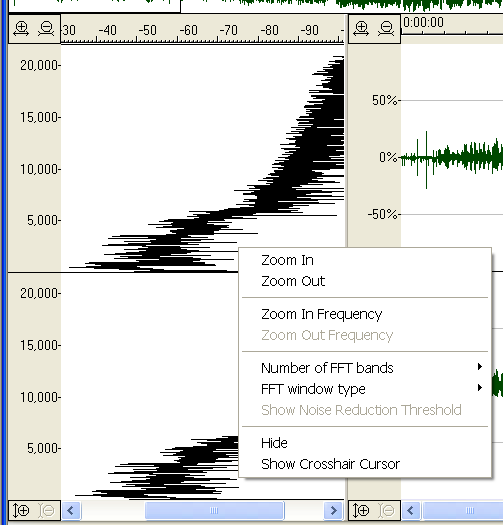
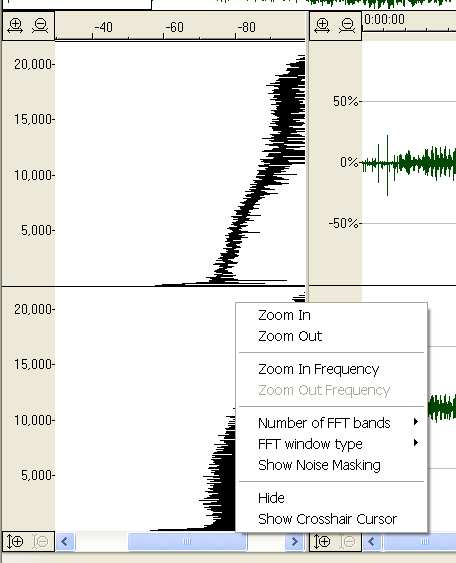
Change "Show spectrum" to "Show noise masking"

diff --git a/hlp/html/MainWindow/spectrum_section_pane.htm b/hlp/html/MainWindow/spectrum_section_pane.htm
@@ -31,7 +31,7 @@ the frequency (vertical) axis;</p>
 synchronized with <a href="fft_spectrum_view.htm">spectrum view</a>.</p>
 <p>&quot;<b>FFT window type</b>&quot; - allows to select different
 <a href="fft_spectrum_view.htm#window_type">windowing function</a>.</p>
-<p>&quot;<b>Show noise reduction threshold</b>&quot; - turns on and off display of
+<p>&quot;<b>Show Noise Masking</b>&quot; - turns on and off display of
 <a href="../Process/process_noise_reduction.htm#algorithm">noise masking 
 function and threshold</a>. </p>
 <p>&quot;<b>Hide</b>&quot; - hides this pane. You can reopen it with <b>Alt+4</b> keyboard 

diff --git a/hlp/html/Process/process_noise_reduction.htm b/hlp/html/Process/process_noise_reduction.htm
@@ -51,7 +51,7 @@ you won't be able to undo the operation and all previous operations.</P>
 operation. It opens a
 <a href="../Dialogs/Selection/SelectionDialog.htm">selection dialog</a>.</P>
 
-<p><a name="show_noise_mask"></a>&quot;<b>Show spectrum and noise threshold</b>&quot; button opens the
+<p><a name="show_noise_mask"></a>&quot;<b>Show noise masking</b>&quot; button opens the
 <a href="../MainWindow/spectrum_section_pane.htm">spectrum section pane</a> and 
 shows the masking function. It allows to see how the chosen noise reduction 
 parameters match the source.</p>
